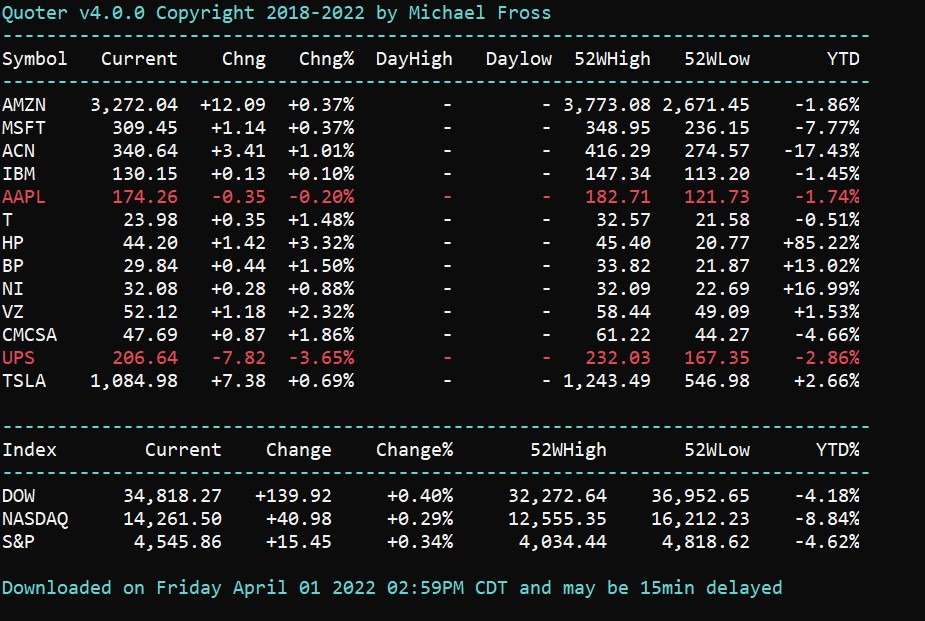
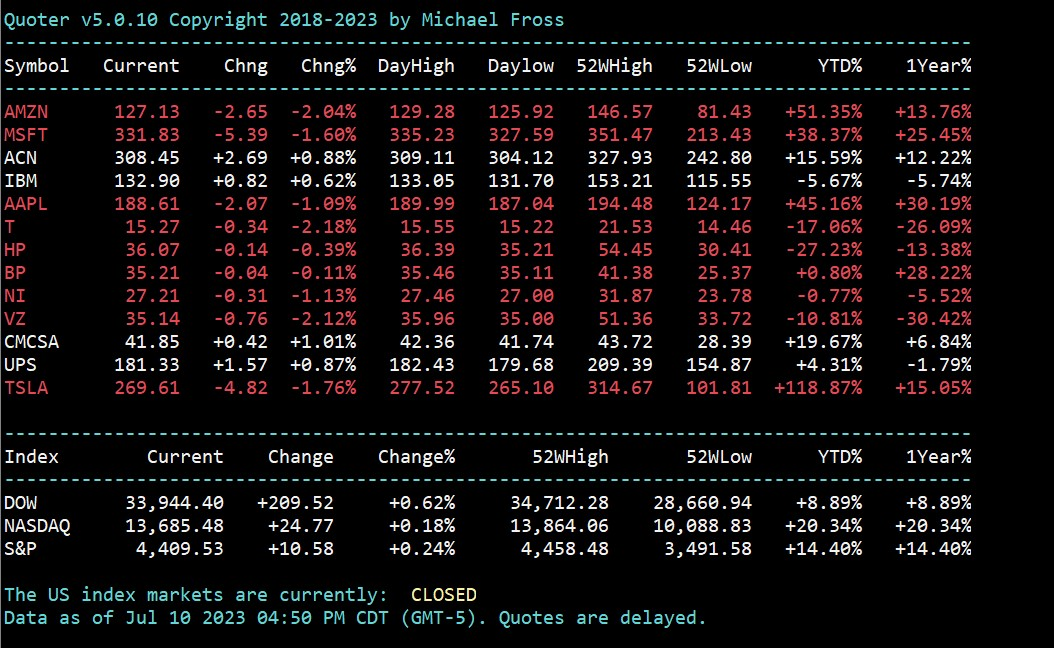
Timestamp will now display in localized date Also updated screenshots and tweaked README

Changed region(s): [[0.0, 0.0, 0.9384, 0.6425], [0.0, 0.6731, 0.9384, 0.9791]]

diff --git a/src/main/java/org/fross/quoter/QuoteConsoleOutput.java b/src/main/java/org/fross/quoter/QuoteConsoleOutput.java
@@ -1,5 +1,10 @@
 package org.fross.quoter;
 
+import java.time.LocalDateTime;
+import java.time.ZoneId;
+import java.time.ZonedDateTime;
+import java.time.format.DateTimeFormatter;
+import java.time.format.DateTimeParseException;
 import java.util.Iterator;
 
 import org.fross.library.Output;
@@ -233,22 +238,42 @@ public class QuoteConsoleOutput {
 		}
 
 		// Display the open/closed status of the market
-		Output.printColor(Ansi.Color.CYAN, "\nThe US index markets are currently: ");
+		Output.printColor(Ansi.Color.CYAN, "\nThe US index markets are currently:  ");
 		if (Index.marketOpen == true) {
 			Output.printColorln(Ansi.Color.YELLOW, "OPEN");
 		} else {
 			Output.printColorln(Ansi.Color.YELLOW, "CLOSED");
 		}
 
-		// Remove the periods from a.m. or p.m.
+		// Convert to local time & time zone
 		if (!timeStamp.isEmpty()) {
-			timeStamp = timeStamp.replaceAll(" [Pp]\\.[Mm]\\.", "pm");
-			timeStamp = timeStamp.replaceAll(" [Aa]\\.[Mm]\\.", "am");
-		} else {
-			timeStamp = "--";
+			try {
+				// Remove the periods from a.m. & p.m. Also make them upper case required by the formatter
+				if (!timeStamp.isEmpty()) {
+					timeStamp = timeStamp.replaceAll(" [Pp]\\.[Mm]\\.", "PM");
+					timeStamp = timeStamp.replaceAll(" [Aa]\\.[Mm]\\.", "AM");
+				} else {
+					timeStamp = "--";
+					throw new DateTimeParseException(null, null, 0);
+				}
+
+				// Parse the time stamp into a LocalDateTime object & set the to the Eastern time zone
+				LocalDateTime ldt = LocalDateTime.parse(timeStamp, DateTimeFormatter.ofPattern("MMM dd yyyy h:mma"));
+				ZonedDateTime zdtSrc = ldt.atZone(ZoneId.of("America/New_York"));
+
+				// Get local time zone for this JVM from the JVM system properties
+				ZoneId destTimeZone = ZoneId.of(System.getProperty("user.timezone"));
+				ZonedDateTime zdtDest = zdtSrc.withZoneSameInstant(destTimeZone);
+
+				// Build the updated time stamp
+				timeStamp = zdtDest.format(DateTimeFormatter.ofPattern("MMM dd yyyy hh:mm a z (O)"));
+				
+			} catch (DateTimeParseException ex) {
+				// Take no action and just use the original timeStamp as received from the financial website
+			}
 		}
 
-		Output.printColorln(Ansi.Color.CYAN, "Data as of " + timeStamp + " Eastern. Quotes are delayed.");
+		Output.printColorln(Ansi.Color.CYAN, "Data as of " + timeStamp + ". Quotes are delayed.");
 
 		// Display trending data if -t was provided and there is at least one valid symbol
 		if (cli.clTrend == true) {

diff --git a/src/main/java/org/fross/quoter/CountDownBar.java b/src/main/java/org/fross/quoter/CountDownBar.java
@@ -34,10 +34,12 @@ import org.fross.library.Output;
 import org.fusesource.jansi.Ansi;
 
 public class CountDownBar extends Thread {
+	private int countDownOrig = 30;
 	private int countDown = 30;
 
 	// Constructor: Sets the time for the count down in seconds
 	public CountDownBar(int sec) {
+		this.countDownOrig = sec;
 		this.countDown = sec;
 	}
 
@@ -74,6 +76,10 @@ public class CountDownBar extends Thread {
 		// Stop the count down
 		this.interrupt();
 
+	}
+	
+	public void reset() {
+		this.countDown = this.countDownOrig;
 	}
 
 }

diff --git a/README.md b/README.md
@@ -57,9 +57,9 @@ If you frequently check the same set of securities, as I do, you can save them i
 Running Quoter with `-r` will remove any saved quotes.  Running with `-i` will ignore the saved quotes for that execution. Running with a `-l` will list your current saved favorites.
 
 ## Trending
-<img align="right" width="200" src="https://github.com/frossm/quoter/raw/master/graphics/PostIt-512x512.jpg">This powerful feature will display approximately three months of trending data.   The dates are on the Y axis, an the cost is on the X axis.
+<img align="right" width="200" src="https://github.com/frossm/quoter/raw/master/graphics/PostIt-512x512.jpg">This powerful feature will display the requested (with `-d`) days to trend.  The default is 90 days.   The dates are on the Y axis, an the cost is on the X axis, you just tilt your head to the right (like you were eating a taco) and you'll be set :-)
 
-It's executed by giving Quoter the **`-t`** command line switch.  If there are 5 symbols on the command line, it will trend them all.
+It's executed by giving Quoter the **`-t`** command line switch.  If there are 5 symbols on the command line, it will trend them all in sequence.
 
 The display will show you the last three months of data with the daily range and the close price.
 
